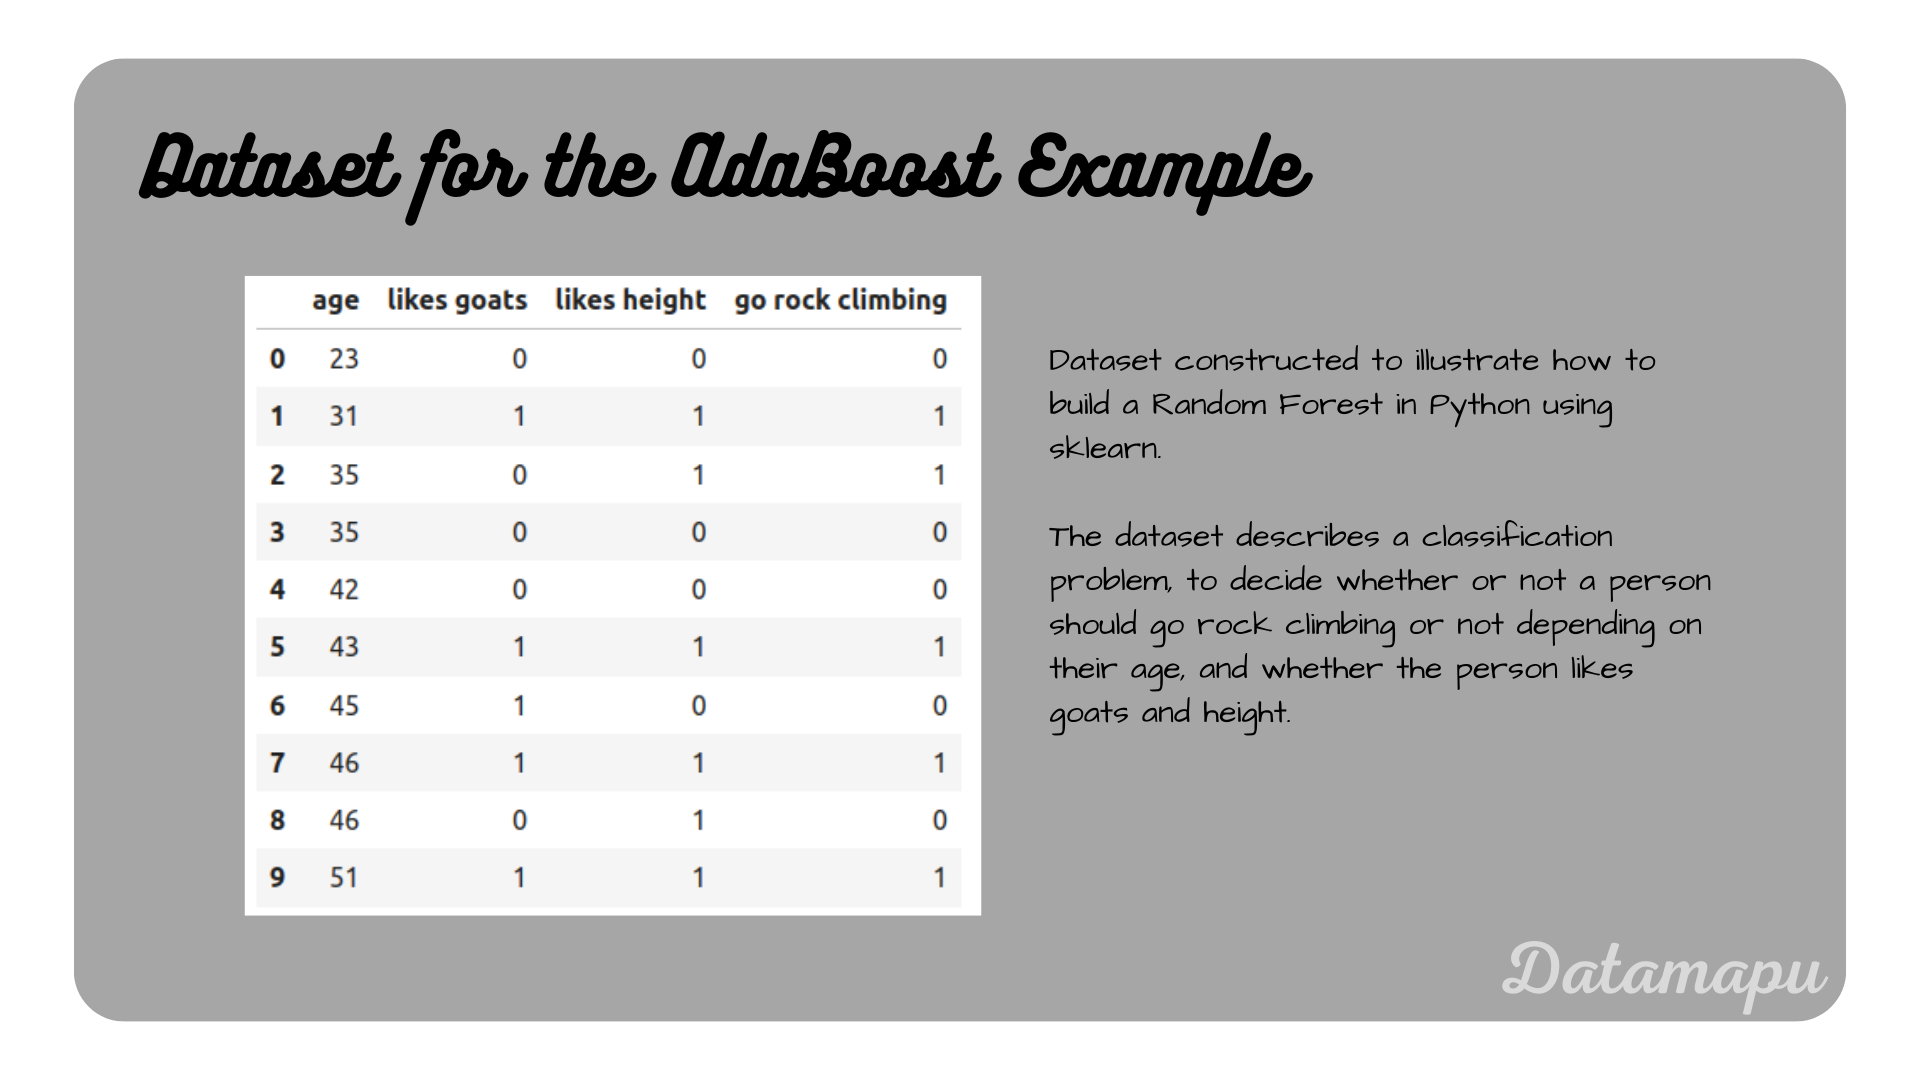
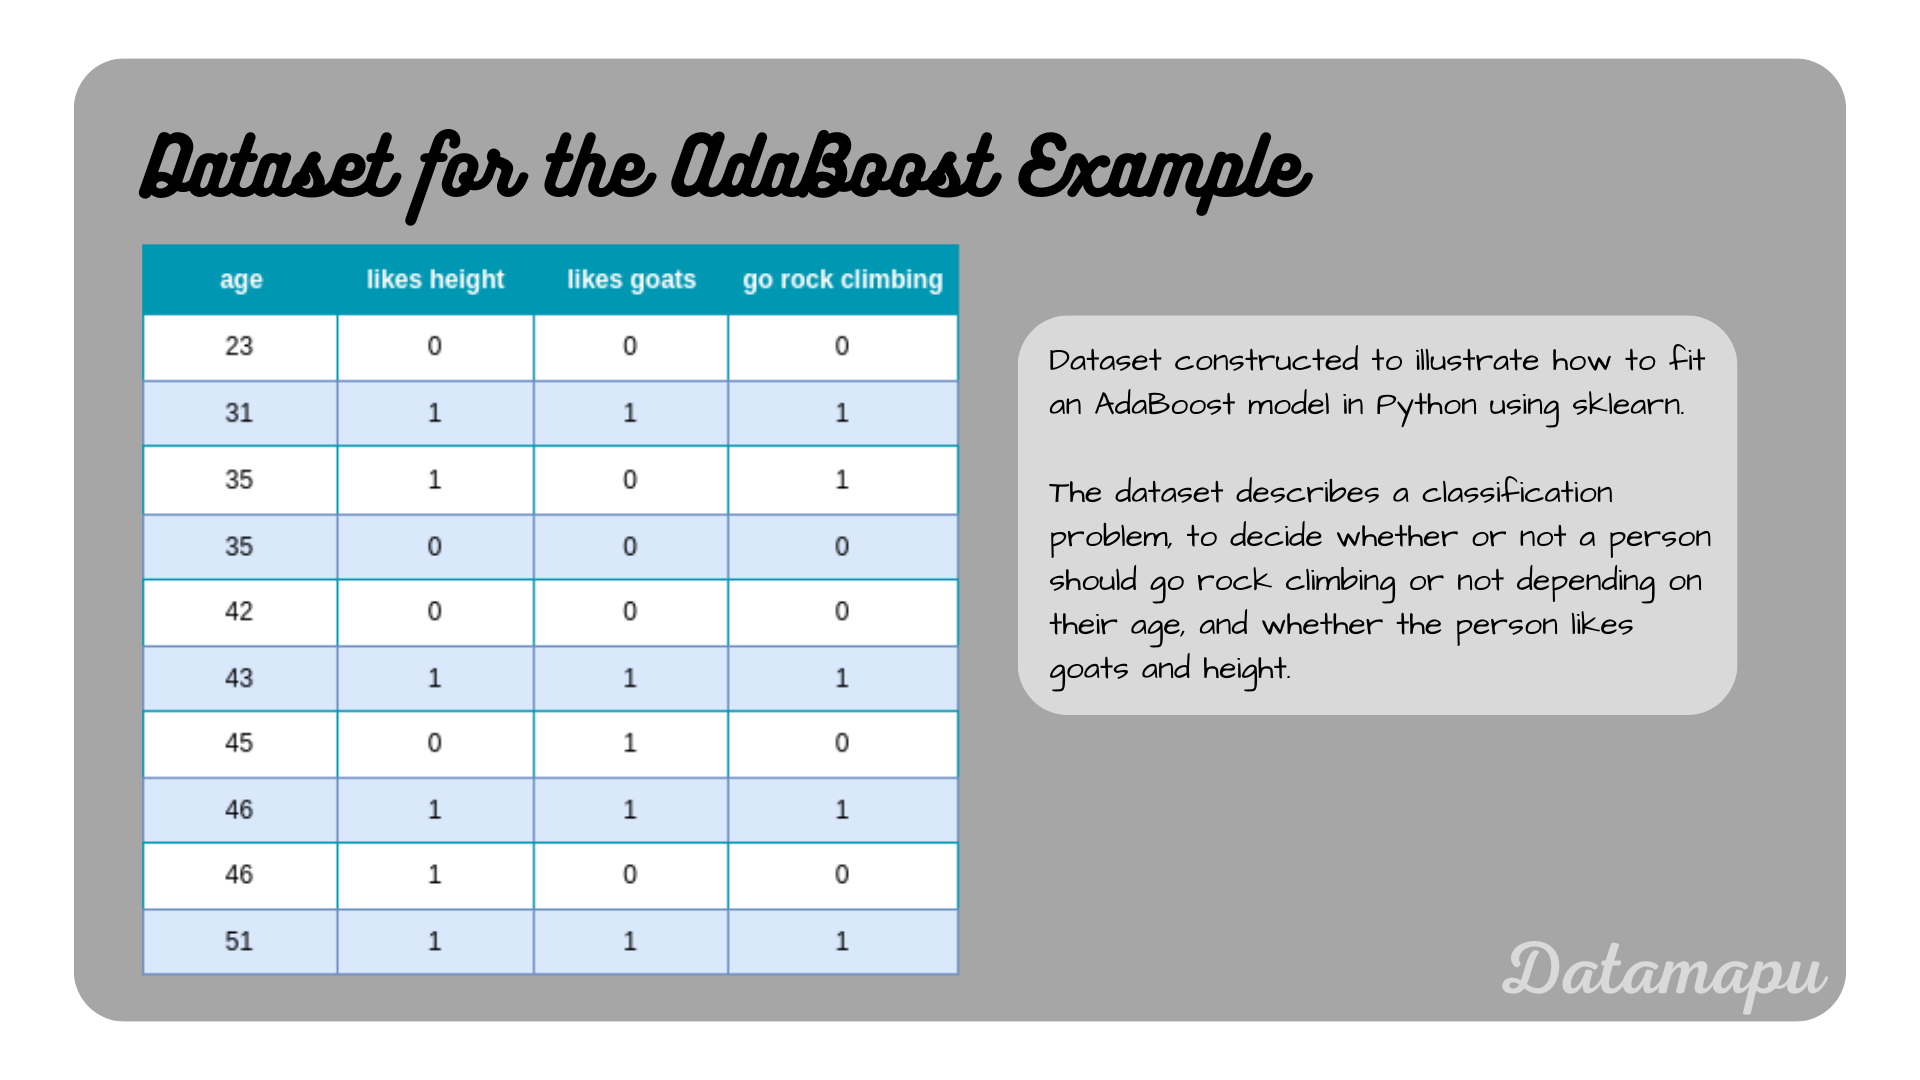
adaboost

diff --git a/content/posts/classical_ml/ada_boost.md b/content/posts/classical_ml/ada_boost.md
@@ -10,7 +10,7 @@ images = ['/images/adaboost/adaboost.png']
 
 ## Introduction
 
-AdaBoost is an example for an [ensemble]({{< ref "/posts/ml_concepts/ensemble.md">}}) [supervised]({{< ref "/posts/ml_concepts/supervised_unsupervised#supervised">}}) Machine Learning model. It consists of a sequential series of models, each one focussing on the errors of the previous one, trying to improve them. The most common underlying model is the [Decision Tree]({{< ref "/posts/classical_ml/decision_trees.md">}}), other models are however possible. In this post, we will introduce the algorithm of AdaBoost and have a look at a simplified example for a classification task using [sklearn](https://scikit-learn.org/stable/modules/generated/sklearn.ensemble.AdaBoostClassifier.html). For a more detailed exploration of this example please refer to [AdaBoost for Classification - Example](). A more realistic example with a larger dataset is provided on [kaggle](). Accordingly, if you are interested how AdaBoost is developed for a regression task, please check the article [AdaBoost for Regression - Example](). 
+AdaBoost is an example for an [ensemble]({{< ref "/posts/ml_concepts/ensemble.md">}}) [supervised]({{< ref "/posts/ml_concepts/supervised_unsupervised#supervised">}}) Machine Learning model. It consists of a sequential series of models, each one focussing on the errors of the previous one, trying to improve them. The most common underlying model is the [Decision Tree]({{< ref "/posts/classical_ml/decision_trees.md">}}), other models are however possible. In this post, we will introduce the algorithm of AdaBoost and have a look at a simplified example for a classification task using [sklearn](https://scikit-learn.org/stable/modules/generated/sklearn.ensemble.AdaBoostClassifier.html). For a more detailed exploration of this example - deriving it by hand - please refer to [AdaBoost for Classification - Example](). A more realistic example with a larger dataset is provided on [kaggle](). Accordingly, if you are interested how AdaBoost is developed for a regression task, please check the article [AdaBoost for Regression - Example](). 
 
 ![adaboost](/images/adaboost/adaboost.png)
 *AdaBoost illustrated.*
@@ -62,9 +62,11 @@ df = pd.DataFrame(data)
 ![adaboost_data](/images/adaboost/adaboost_data.png)
 *Example dataset to illustrate AdaBoost in Python.*
 
-We use this data to fit an AdaBoost Classifier. As this is a very simplified dataset, we use only $3$ models to build the ensemble model. This is set by the hyperparamter *n_estimators=3*. The other hyperparameters are left as the default values. That means as base models the stumps of Decision Trees are used.
+We use this data to fit an AdaBoost Classifier. As this is a very simplified dataset, we use only three models to build the ensemble model. This is done by setting the hyperparamter *n_estimators=3*. The other hyperparameters are left as the default values. That means as base models the stumps of Decision Trees are used.
 
 ```Python
+from sklearn.ensemble import AdaBoostClassifier
+
 X = df[['age', 'likes goats', 'likes height']].values
 y = df[['go rock climbing']].values.reshape(-1,)
 
@@ -72,31 +74,54 @@ clf = AdaBoostClassifier(n_estimators=3, random_state=42)
 clf.fit(X, y)
 ```
 
-To get the predictions we can use the methods *predict* to get the predicted classes or *predict_proba* to get the probabilities. Then we can print the score, which is the mean accuracy.
+To make predictions we can use the *predict* method, and then we can print the score, which is defined as the mean accuracy.
 
 ```Python
 y_hat = clf.predict(X)
-y_hat_proba = clf.predict_proba(X)
 print(f"predictions: {y_hat}")
-print(f"predictions probs: {y_hat_proba[:,1]}")
 print(f"score: {clf.score(X, y)}")
 ```
 
-The predictions are predictions: $[0, 1, 1, 0, 0, 1, 0, 1, 0, 1]$ and the score is $1.0$. We can also print the predictions and scores after each boosting iteration, to see how they evolve.
+The predictions are $[0, 1, 1, 0, 0, 1, 0, 1, 0, 1]$ and the score is $1.0$. That means our model predicts all samples correctly. We can also print the predictions and scores after each boosting iteration, to see how they evolve.
 
 ```Python
 staged_predictions = [p for p in clf.staged_predict(X)]
 staged_score = [p for p in clf.staged_score(X, y)]
 ```
 
-The predictions for the three stages are $[0, 1, 1, 0, 0, 1, 0, 1, 1, 1]$, $[0, 1, 0, 0, 0, 1, 0, 1, 0, 1]$, and $[0, 1, 1, 0, 0, 1, 0, 1, 0, 1]$. Accordingly the scores $[0.9, 0.9, 1.0].$ This shows how the predictions and the score improve over the three iterations.
+The predictions for the three stages are 
 
-* plot trees / stumps
-* hyperparamters: base_estimator - default Decision Tree with deoth 1, what other hyperparamters are importrnat?
-* First stump is the start of the Decision Tree build in DT classification article
-* calculate the next stumps by hand, if too long -> extra post
+stage 1: $[0, 1, 1, 0, 0, 1, 0, 1, 1, 1]$, 
+
+stage 2: $[0, 1, 0, 0, 0, 1, 0, 1, 0, 1]$, and
+
+stage 3 $[0, 1, 1, 0, 0, 1, 0, 1, 0, 1]$. 
+
+Accordingly the scores are
+
+stage 1: $0.9$,
+
+stage 2: $0.9$, and
+
+stage 3: $1.0$.
+
+ This shows how the predictions and the score improve over the three iterations. To illustrate the model we can plot the three stumps created. We can access them using the *estimators_* attribute. Note that creating the stumps contains randomness, when the modified dataset is constructed, as described above. In order to make the results reproducible the *random_seed* is set, when fitting the model.
+
+```Python
+from sklearn import tree
+
+tree.plot_tree(clf.estimators_[0], 
+	feature_names=['age', 'likes goats', 'likes height'], fontsize=10) 
+```
+
+![adaboost_stumps](/images/adaboost/adaboost_stumps.png)
+*The three stumps for the AdaBoost model of the example.*
+
+Comparing the first stump to the calculations in the article [Decision Trees for Classification - Example]({{<ref "/posts/classical_ml/decision_tree_classification_example.md">}}), in which the same dataset is used, we can see that this is exactly the beginning of the Decision Tree developed. Please find a detailed derivation of the above example, calculating it by hand in the separate article [AdaBoost for Classification - Example](). In a real project, we would of course divide our data in training, validation and test data, and then fit the model to the training data only and evaluate on validation and finaly on the test data. A more realistic example is provided on [kaggle]() 
 
 ## Summary
+
+In this article, we learned about AdaBoost, a sequential ensemble model, in which a sequential series of models is developed. Sequentially the errors of the developed models are evaluated and the dataset modified such that a higher focus lies on the wrongly predicted samples for the next iteration. In Python, we can use [sklearn](https://scikit-learn.org/stable/modules/generated/sklearn.ensemble.AdaBoostClassifier.html) to fit a AdaBoost model, which also offers some methods to explore created models and their predictions. The example used in this article, however, was very simplified and only for illustration purposes. For a more developed example for AdaBoost in Python, please refer to [kaggle](). 
 
 If this blog is useful for you, I'm thankful for your support!
 {{< bmc-button slug="pumaline" >}}
